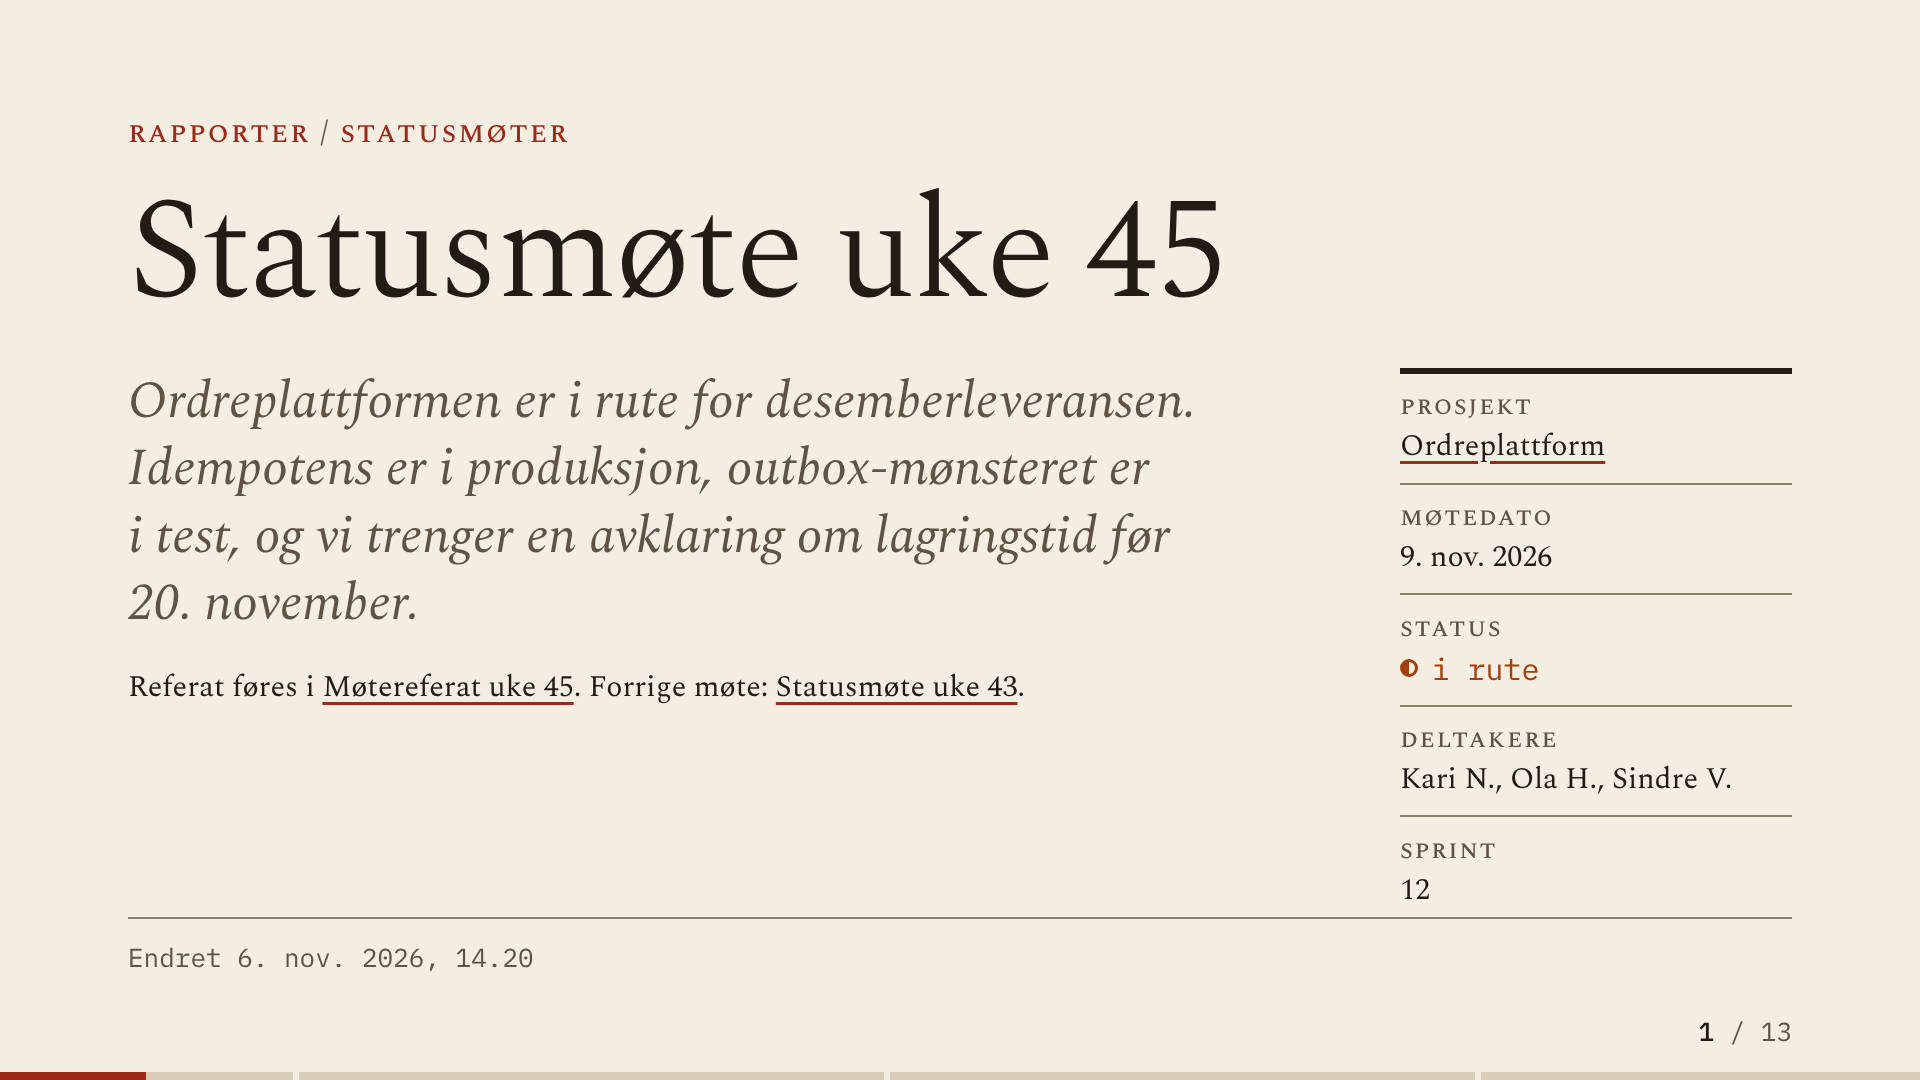
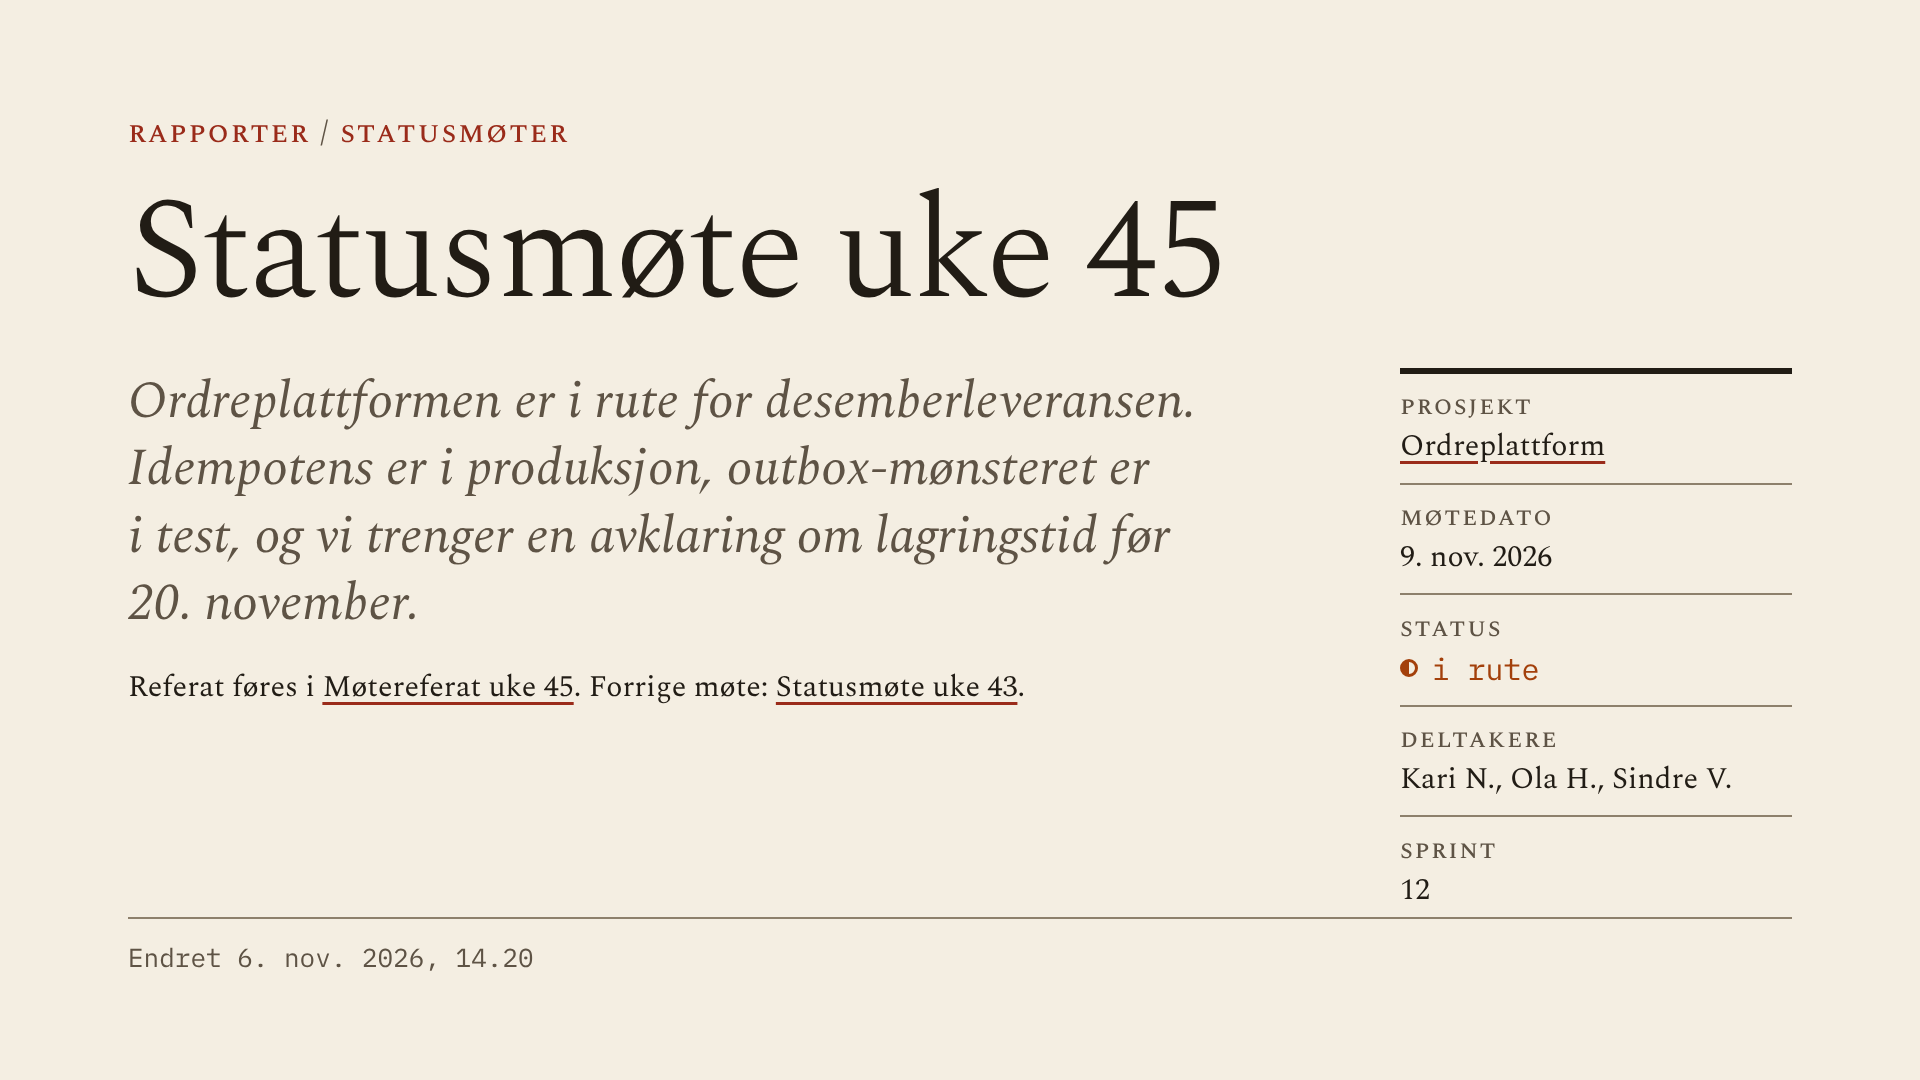
Design v2: tittellysbilde uten folio (PO-95), Esc-toast (PO-92), byggeskript i repo (PO-98)
Claude-Session: https://claude.ai/code/session_01GiyW1H5Dg5RbkmeV8bbKhG

Changed region(s): [[0.0, 0.9472, 1.0, 1.0]]

diff --git a/docs/design/prototype-v2.html b/docs/design/prototype-v2.html
@@ -857,6 +857,8 @@ button { font: inherit; color: inherit; background: none; border: 0; padding: 0;
 .live-flag { display: inline-flex; align-items: baseline; gap: 0.5em; font-family: var(--font-meta); font-style: normal; color: var(--color-muted); }
 .live-flag::before { content: ""; width: 0.55em; height: 0.55em; border-radius: 50%; background: var(--hue-green); align-self: center; }
 .progress { position: absolute; left: 0; right: 0; bottom: 0; height: var(--slide-progress-h); display: flex; gap: calc(6 * var(--lp)); z-index: 2; }
+/* PO-95: tittellysbildet har verken folio eller fremdriftslinje (tidsskrifttradisjon) */
+.present[data-kind="tittel"] .progress, .present[data-kind="tittel"] .folio { visibility: hidden; }
 .progress .seg { position: relative; flex: var(--n) 1 0; background: var(--color-progress-track); overflow: hidden; }
 .progress .fill { position: absolute; inset: 0 auto 0 0; width: var(--w, 0%); background: var(--color-progress); transition: width var(--dur-base) var(--ease-out); }
 
@@ -1715,6 +1717,11 @@ function toggleFs() {
   if (document.fullscreenElement) document.exitFullscreen?.();
   else document.documentElement.requestFullscreen?.().catch(() => toast('<b>Fullskjerm ble ikke tillatt</b><span class="muted">Presentasjonen virker også i vindu, f.eks. ved deling av ett vindu i Teams.</span>'));
 }
+
+/* PO-92: nettleseren tar første Esc i fullskjerm – presentasjonen fortsetter, og vi sier hvordan man avslutter */
+document.addEventListener('fullscreenchange', () => {
+  if (!document.fullscreenElement && !$('#present').hidden) toast('<b>Fullskjerm av</b><span class="muted"><span class="k">Esc</span> igjen avslutter presentasjonen · <span class="k">f</span> fullskjerm</span>');
+});
 
 /* ---------- Skalering (ADR-010): k = min(b/1920, h/1080), satt som --stage-scale ---------- */
 function fitStage() {

diff --git a/docs/design/prototype-v2/src.html b/docs/design/prototype-v2/src.html
@@ -114,6 +114,8 @@ button { font: inherit; color: inherit; background: none; border: 0; padding: 0;
 .live-flag { display: inline-flex; align-items: baseline; gap: 0.5em; font-family: var(--font-meta); font-style: normal; color: var(--color-muted); }
 .live-flag::before { content: ""; width: 0.55em; height: 0.55em; border-radius: 50%; background: var(--hue-green); align-self: center; }
 .progress { position: absolute; left: 0; right: 0; bottom: 0; height: var(--slide-progress-h); display: flex; gap: calc(6 * var(--lp)); z-index: 2; }
+/* PO-95: tittellysbildet har verken folio eller fremdriftslinje (tidsskrifttradisjon) */
+.present[data-kind="tittel"] .progress, .present[data-kind="tittel"] .folio { visibility: hidden; }
 .progress .seg { position: relative; flex: var(--n) 1 0; background: var(--color-progress-track); overflow: hidden; }
 .progress .fill { position: absolute; inset: 0 auto 0 0; width: var(--w, 0%); background: var(--color-progress); transition: width var(--dur-base) var(--ease-out); }
 
@@ -972,6 +974,11 @@ function toggleFs() {
   if (document.fullscreenElement) document.exitFullscreen?.();
   else document.documentElement.requestFullscreen?.().catch(() => toast('<b>Fullskjerm ble ikke tillatt</b><span class="muted">Presentasjonen virker også i vindu, f.eks. ved deling av ett vindu i Teams.</span>'));
 }
+
+/* PO-92: nettleseren tar første Esc i fullskjerm – presentasjonen fortsetter, og vi sier hvordan man avslutter */
+document.addEventListener('fullscreenchange', () => {
+  if (!document.fullscreenElement && !$('#present').hidden) toast('<b>Fullskjerm av</b><span class="muted"><span class="k">Esc</span> igjen avslutter presentasjonen · <span class="k">f</span> fullskjerm</span>');
+});
 
 /* ---------- Skalering (ADR-010): k = min(b/1920, h/1080), satt som --stage-scale ---------- */
 function fitStage() {

diff --git a/docs/design/designsystem.md b/docs/design/designsystem.md
@@ -13,7 +13,7 @@ Eier: UX/webdesign. Bindende grunnlag: `docs/produkt/brief.md` (særlig B9, B10,
 | `skjermbilder/` | Skjermbilder 1440 px og 390 px i flere kombinasjoner (v1.1 i `skjermbilder/v1.1/`) |
 | `prototype-v1.1.html` | **v1.1** (§11): lesebredde, diskré embedding, folding, zen, `:`-palett, `?`-oppslagskort, which-key. Selvstendig, interaktiv. |
 | `kontrast-v1.1.mjs` | Kontrollskript for v1.1-fargene: `node docs/design/kontrast-v1.1.mjs` (exit 1 ved brudd, `--json` for QA) |
-| `prototype-v2.html` | **v2** (§12): presentasjonsmodus. Et realistisk statusmøte på 13 lysbilder, oversikt, svart skjerm, palett med feilkoder, alle typesett/paletter. Selvstendig, interaktiv. |
+| `prototype-v2.html` | **v2** (§12), **generert** fra `prototype-v2/src.html` med `prototype-v2/build.py` (se README der, PO-98): presentasjonsmodus. Et realistisk statusmøte på 13 lysbilder, oversikt, svart skjerm, palett med feilkoder, alle typesett/paletter. Selvstendig, interaktiv. |
 | `kontrast-v2.mjs` | Kontrollskript for v2-fargene (letterbox, agendalinje, oversikt …): `node docs/design/kontrast-v2.mjs` |
 | `skjermbilder/v2/` | 1920×1080, 1280×720, 1440×900 (letterbox) og 390×844 |
 
@@ -955,7 +955,7 @@ lysbildet er synlig. De andre har `visibility: hidden` og `inert`.
   Nederst står «Endret …» i mono over en hårstrek. **Ingen tagger (PO-90).**
 - Terminal: `~/sti`, tittel med en **statisk blokkmarkør** i aksent (█, blinker ikke), og properties som nøkkel/verdi-
   tabell på `surface`. Klartekst: én spalte, properties som fet nøkkel og verdi.
-- Properties respekterer skjulte felt som i leseren. Kolumnetittel vises ikke. Folio og fremdrift vises (A5).
+- Properties respekterer skjulte felt som i leseren. Kolumnetittel, **folio og fremdriftslinje vises ikke** (PO-95, tidsskrifttradisjon: tittelsiden har ingen folio).
 - S6: innhold før første agendaoverskrift står under ingressen hvis det passer (målt med samme tilpasning), ellers på
   et eget lysbilde (ADR-010: id `innledning`).
 
@@ -1016,9 +1016,9 @@ Notene følger lysbildet der referansen står, også etter deling.
 
 ### 12.6 Krom: folio, fremdrift, kontroller
 
-- **Folio** nederst til høyre: «**7** / 13» i mono, med gjeldende nummer i tekstfarge og resten dempet. Nederst til
+- **Folio** nederst til høyre (ikke på tittellysbildet, PO-95): «**7** / 13» i mono, med gjeldende nummer i tekstfarge og resten dempet. Nederst til
   venstre står notattittelen (A kursiv, C mono). Den skjules på tittellysbildet.
-- **Fremdrift** (A5): segmentert stripe på 8 lp helt nederst, med ett segment per agendaseksjon (tittel og agenda er
+- **Fremdrift** (A5, ikke på tittellysbildet, PO-95): segmentert stripe på 8 lp helt nederst, med ett segment per agendaseksjon (tittel og agenda er
   første segment) og 6 lp mellomrom. Fyll i `--color-progress`, spor i `--color-progress-track` (dekor). Bredden
   animeres med `--dur-base`. Segmentene gir struktur uten tekst.
 - **Musekontroller:** «Oversikt [o]» og «Avslutt [Esc]» øverst til høyre. De er skjult i hvile, vises ved
@@ -1059,7 +1059,7 @@ Notene følger lysbildet der referansen står, også etter deling.
   folio) byttes momentant, og fremdriften glir. Ingen bevegelse, skalering eller skyving. Ved
   `prefers-reduced-motion` er `--slide-fade` 0 ms. Toning er også gunstig for videokomprimering (ingen store
   bevegelsesvektorer).
-- **Fullskjerm** `f` / `:fullskjerm` (PO-88). Avvises fullskjerm, kommer en toast om at presentasjonen virker i vindu.
+- **Fullskjerm** `f` / `:fullskjerm` (PO-88). Går man ut av fullskjerm (nettleseren tar første `Esc`), fortsetter presentasjonen med toasten «**Fullskjerm av** [Esc] igjen avslutter presentasjonen · [f] fullskjerm» (PO-92). Avvises fullskjerm, kommer en toast om at presentasjonen virker i vindu.
 - **Esc** (PO-87): lukker overlegg først, avslutter ellers til **seksjonen for gjeldende lysbilde** med toasten
   «Presentasjonen er avsluttet. Du står ved «Outbox-mønsteret». [Space][p] starter herfra.»
 
@@ -1119,7 +1119,12 @@ Ingen nye råverdier, bortsett fra #000 til svart skjerm. Krympefaktoren per lys
 - [ ] `--slide-fade` 0 ved reduced motion. Kanbanglød erstattes av ramme.
 - [ ] Overlegg skaleres med vinduet (`html` font-size i present-modus).
 
-### 12.13 Åpne spørsmål (v2)
+### 12.13 Avklarte spørsmål (v2)
+
+Alle seks spørsmålene er besvart av PO: 1 → PO-92 (to Esc i fullskjerm, toast), 2 → PO-93 (godkjent), 3 → PO-94 (`↑`/`↓`
+registreres), 4 → PO-95 (ingen folio/fremdrift på tittellysbildet), 5 → PO-96 (h2 gir ingen agenda), 6 → PO-97 (hintet
+beholdes). Opprinnelig formulering under, for sporbarhet.
+
 
 1. **Esc i nettleserens fullskjerm.** I fullskjerm tar nettleseren selv første `Esc` (går ut av fullskjerm), og siden
    får ikke tasten. AK-2-01 («Esc avslutter») krever da to trykk. Forslag: når fullskjerm avsluttes mens vi presenterer,

diff --git a/docs/design/prototype-v2/README.md b/docs/design/prototype-v2/README.md
@@ -1,0 +1,32 @@
+# Kilde for prototype-v2.html (PO-98)
+
+`../prototype-v2.html` er **generert**. Rediger `src.html` her og bygg på nytt. Ikke rediger den genererte filen.
+
+| Fil | Hva |
+|---|---|
+| `src.html` | Prototypens HTML, CSS og JS (designsystem §12). Inneholder plassholderne `/*FONTS*/` og `/*TOKENS*/`. |
+| `build.py` | Setter inn de 15 `@font-face`-reglene (base64-fonter) fra `../prototype-v1.1.html` og hele `../tokens.css`, og skriver `../prototype-v2.html`. |
+
+## Bygg
+
+```sh
+python3 docs/design/prototype-v2/build.py
+```
+
+Krever bare Python 3, ingen avhengigheter. Bygget er deterministisk: samme `src.html`, `tokens.css` og
+`prototype-v1.1.html` gir byte-identisk `prototype-v2.html` (kontrollert med `cmp`).
+
+**Bygg på nytt når du har endret `tokens.css`**, slik at prototypen alltid viser de kanoniske tokenene. Kjør deretter
+kontrollene:
+
+```sh
+node docs/design/kontrast-v2.mjs      # fargekontrast for v2, exit 1 ved brudd
+node docs/design/kontrast-v1.1.mjs    # v1.1 skal fortsatt være grønn
+```
+
+## Etter bygging
+
+- Åpne `docs/design/prototype-v2.html` direkte i nettleseren (`file://`). URL-parametrene står i designsystem §12.
+- Skjermbildene i `../skjermbilder/v2/` tas med Playwright mot den genererte filen, i 1920×1080, 1280×720, 1440×900
+  og 390×844. Filnavnene sier funksjon, typesett, palett og modus. Kjør aldri `playwright install`; nettleseren er
+  forhåndsinstallert.
